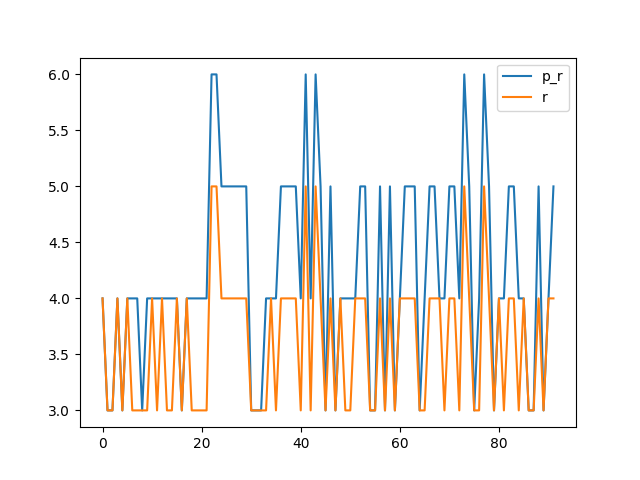
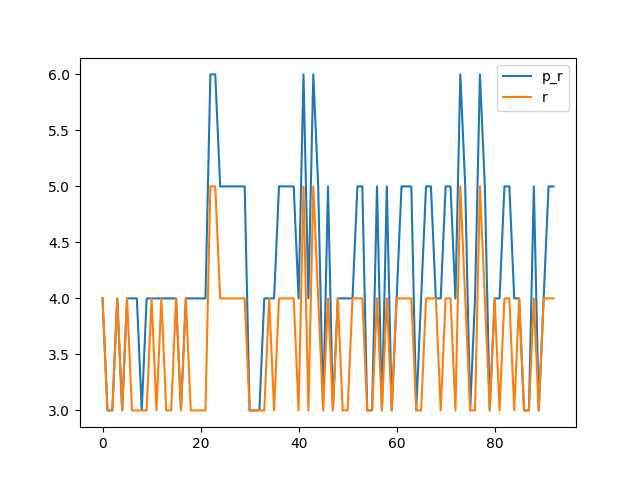
0x005C

diff --git a/benchmark.md b/benchmark.md
@@ -182,16 +182,18 @@ Synthesising 0x005A pexact:280 r=4 exact:352 r=4
 
 Synthesising 0x005B pexact:326 r=5 exact:344 r=4
 
+Synthesising 0x005C pexact:304 r=5 exact:320 r=4
+
 ```mermaid
 xychart-beta
     title "Comparison powertwoexact twoexact"
-    x-axis [0, 1, 2, 3, 4, 5, 6, 7, 8, 9, 10, 11, 12, 13, 14, 15, 16, 17, 18, 19, 20, 21, 22, 23, 24, 25, 26, 27, 28, 29, 30, 31, 32, 33, 34, 35, 36, 37, 38, 39, 40, 41, 42, 43, 44, 45, 46, 47, 48, 49, 50, 51, 52, 53, 54, 55, 56, 57, 58, 59, 60, 61, 62, 63, 64, 65, 66, 67, 68, 69, 70, 71, 72, 73, 74, 75, 76, 77, 78, 79, 80, 81, 82, 83, 84, 85, 86, 87, 88, 89, 90, 91]
+    x-axis [0, 1, 2, 3, 4, 5, 6, 7, 8, 9, 10, 11, 12, 13, 14, 15, 16, 17, 18, 19, 20, 21, 22, 23, 24, 25, 26, 27, 28, 29, 30, 31, 32, 33, 34, 35, 36, 37, 38, 39, 40, 41, 42, 43, 44, 45, 46, 47, 48, 49, 50, 51, 52, 53, 54, 55, 56, 57, 58, 59, 60, 61, 62, 63, 64, 65, 66, 67, 68, 69, 70, 71, 72, 73, 74, 75, 76, 77, 78, 79, 80, 81, 82, 83, 84, 85, 86, 87, 88, 89, 90, 91, 92]
     y-axis "Switching Activity" 0-->472
-    line [96, 152, 152, 182, 152, 182, 208, 182, 152, 208, 182, 182, 182, 182, 182, 182, 152, 182, 208, 182, 208, 182, 406, 400, 336, 310, 310, 304, 310, 304, 224, 216, 152, 208, 182, 182, 336, 310, 310, 304, 208, 406, 182, 400, 310, 224, 304, 216, 182, 182, 182, 182, 310, 304, 224, 216, 310, 224, 304, 216, 280, 326, 326, 238, 152, 208, 336, 310, 182, 182, 310, 304, 208, 406, 310, 224, 182, 400, 304, 216, 182, 182, 310, 304, 182, 182, 224, 216, 310, 224, 280, 326]
-    line [192, 152, 152, 312, 152, 352, 224, 192, 192, 224, 352, 216, 320, 216, 216, 352, 152, 326, 224, 216, 224, 192, 464, 448, 352, 344, 344, 320, 336, 352, 224, 216, 192, 224, 318, 192, 352, 344, 344, 312, 224, 448, 192, 440, 344, 224, 312, 216, 320, 216, 216, 280, 344, 312, 224, 216, 344, 224, 320, 216, 344, 336, 344, 288, 152, 224, 352, 336, 320, 192, 344, 320, 224, 472, 336, 224, 192, 448, 312, 216, 248, 192, 320, 352, 216, 192, 224, 216, 320, 224, 352, 344]
-    line [243.34782608695653, 243.34782608695653, 243.34782608695653, 243.34782608695653, 243.34782608695653, 243.34782608695653, 243.34782608695653, 243.34782608695653, 243.34782608695653, 243.34782608695653, 243.34782608695653, 243.34782608695653, 243.34782608695653, 243.34782608695653, 243.34782608695653, 243.34782608695653, 243.34782608695653, 243.34782608695653, 243.34782608695653, 243.34782608695653, 243.34782608695653, 243.34782608695653, 243.34782608695653, 243.34782608695653, 243.34782608695653, 243.34782608695653, 243.34782608695653, 243.34782608695653, 243.34782608695653, 243.34782608695653, 243.34782608695653, 243.34782608695653, 243.34782608695653, 243.34782608695653, 243.34782608695653, 243.34782608695653, 243.34782608695653, 243.34782608695653, 243.34782608695653, 243.34782608695653, 243.34782608695653, 243.34782608695653, 243.34782608695653, 243.34782608695653, 243.34782608695653, 243.34782608695653, 243.34782608695653, 243.34782608695653, 243.34782608695653, 243.34782608695653, 243.34782608695653, 243.34782608695653, 243.34782608695653, 243.34782608695653, 243.34782608695653, 243.34782608695653, 243.34782608695653, 243.34782608695653, 243.34782608695653, 243.34782608695653, 243.34782608695653, 243.34782608695653, 243.34782608695653, 243.34782608695653, 243.34782608695653, 243.34782608695653, 243.34782608695653, 243.34782608695653, 243.34782608695653, 243.34782608695653, 243.34782608695653, 243.34782608695653, 243.34782608695653, 243.34782608695653, 243.34782608695653, 243.34782608695653, 243.34782608695653, 243.34782608695653, 243.34782608695653, 243.34782608695653, 243.34782608695653, 243.34782608695653, 243.34782608695653, 243.34782608695653, 243.34782608695653, 243.34782608695653, 243.34782608695653, 243.34782608695653, 243.34782608695653, 243.34782608695653, 243.34782608695653, 243.34782608695653]
-    line [278.6521739130435, 278.6521739130435, 278.6521739130435, 278.6521739130435, 278.6521739130435, 278.6521739130435, 278.6521739130435, 278.6521739130435, 278.6521739130435, 278.6521739130435, 278.6521739130435, 278.6521739130435, 278.6521739130435, 278.6521739130435, 278.6521739130435, 278.6521739130435, 278.6521739130435, 278.6521739130435, 278.6521739130435, 278.6521739130435, 278.6521739130435, 278.6521739130435, 278.6521739130435, 278.6521739130435, 278.6521739130435, 278.6521739130435, 278.6521739130435, 278.6521739130435, 278.6521739130435, 278.6521739130435, 278.6521739130435, 278.6521739130435, 278.6521739130435, 278.6521739130435, 278.6521739130435, 278.6521739130435, 278.6521739130435, 278.6521739130435, 278.6521739130435, 278.6521739130435, 278.6521739130435, 278.6521739130435, 278.6521739130435, 278.6521739130435, 278.6521739130435, 278.6521739130435, 278.6521739130435, 278.6521739130435, 278.6521739130435, 278.6521739130435, 278.6521739130435, 278.6521739130435, 278.6521739130435, 278.6521739130435, 278.6521739130435, 278.6521739130435, 278.6521739130435, 278.6521739130435, 278.6521739130435, 278.6521739130435, 278.6521739130435, 278.6521739130435, 278.6521739130435, 278.6521739130435, 278.6521739130435, 278.6521739130435, 278.6521739130435, 278.6521739130435, 278.6521739130435, 278.6521739130435, 278.6521739130435, 278.6521739130435, 278.6521739130435, 278.6521739130435, 278.6521739130435, 278.6521739130435, 278.6521739130435, 278.6521739130435, 278.6521739130435, 278.6521739130435, 278.6521739130435, 278.6521739130435, 278.6521739130435, 278.6521739130435, 278.6521739130435, 278.6521739130435, 278.6521739130435, 278.6521739130435, 278.6521739130435, 278.6521739130435, 278.6521739130435, 278.6521739130435]
-    bar [80, 60, 60, 80, 60, 80, 80, 80, 60, 80, 80, 80, 80, 80, 80, 80, 60, 80, 80, 80, 80, 80, 120, 120, 100, 100, 100, 100, 100, 100, 60, 60, 60, 80, 80, 80, 100, 100, 100, 100, 80, 120, 80, 120, 100, 60, 100, 60, 80, 80, 80, 80, 100, 100, 60, 60, 100, 60, 100, 60, 80, 100, 100, 100, 60, 80, 100, 100, 80, 80, 100, 100, 80, 120, 100, 60, 80, 120, 100, 60, 80, 80, 100, 100, 80, 80, 60, 60, 100, 60, 80, 100]
-    bar [80, 60, 60, 80, 60, 80, 60, 60, 60, 60, 80, 60, 80, 60, 60, 80, 60, 80, 60, 60, 60, 60, 100, 100, 80, 80, 80, 80, 80, 80, 60, 60, 60, 60, 80, 60, 80, 80, 80, 80, 60, 100, 60, 100, 80, 60, 80, 60, 80, 60, 60, 80, 80, 80, 60, 60, 80, 60, 80, 60, 80, 80, 80, 80, 60, 60, 80, 80, 80, 60, 80, 80, 60, 100, 80, 60, 60, 100, 80, 60, 80, 60, 80, 80, 60, 80, 60, 60, 80, 60, 80, 80]
+    line [96, 152, 152, 182, 152, 182, 208, 182, 152, 208, 182, 182, 182, 182, 182, 182, 152, 182, 208, 182, 208, 182, 406, 400, 336, 310, 310, 304, 310, 304, 224, 216, 152, 208, 182, 182, 336, 310, 310, 304, 208, 406, 182, 400, 310, 224, 304, 216, 182, 182, 182, 182, 310, 304, 224, 216, 310, 224, 304, 216, 280, 326, 326, 238, 152, 208, 336, 310, 182, 182, 310, 304, 208, 406, 310, 224, 182, 400, 304, 216, 182, 182, 310, 304, 182, 182, 224, 216, 310, 224, 280, 326, 304]
+    line [192, 152, 152, 312, 152, 352, 224, 192, 192, 224, 352, 216, 320, 216, 216, 352, 152, 326, 224, 216, 224, 192, 464, 448, 352, 344, 344, 320, 336, 352, 224, 216, 192, 224, 318, 192, 352, 344, 344, 312, 224, 448, 192, 440, 344, 224, 312, 216, 320, 216, 216, 280, 344, 312, 224, 216, 344, 224, 320, 216, 344, 336, 344, 288, 152, 224, 352, 336, 320, 192, 344, 320, 224, 472, 336, 224, 192, 448, 312, 216, 248, 192, 320, 352, 216, 192, 224, 216, 320, 224, 352, 344, 320]
+    line [244.0, 244.0, 244.0, 244.0, 244.0, 244.0, 244.0, 244.0, 244.0, 244.0, 244.0, 244.0, 244.0, 244.0, 244.0, 244.0, 244.0, 244.0, 244.0, 244.0, 244.0, 244.0, 244.0, 244.0, 244.0, 244.0, 244.0, 244.0, 244.0, 244.0, 244.0, 244.0, 244.0, 244.0, 244.0, 244.0, 244.0, 244.0, 244.0, 244.0, 244.0, 244.0, 244.0, 244.0, 244.0, 244.0, 244.0, 244.0, 244.0, 244.0, 244.0, 244.0, 244.0, 244.0, 244.0, 244.0, 244.0, 244.0, 244.0, 244.0, 244.0, 244.0, 244.0, 244.0, 244.0, 244.0, 244.0, 244.0, 244.0, 244.0, 244.0, 244.0, 244.0, 244.0, 244.0, 244.0, 244.0, 244.0, 244.0, 244.0, 244.0, 244.0, 244.0, 244.0, 244.0, 244.0, 244.0, 244.0, 244.0, 244.0, 244.0, 244.0, 244.0]
+    line [279.0967741935484, 279.0967741935484, 279.0967741935484, 279.0967741935484, 279.0967741935484, 279.0967741935484, 279.0967741935484, 279.0967741935484, 279.0967741935484, 279.0967741935484, 279.0967741935484, 279.0967741935484, 279.0967741935484, 279.0967741935484, 279.0967741935484, 279.0967741935484, 279.0967741935484, 279.0967741935484, 279.0967741935484, 279.0967741935484, 279.0967741935484, 279.0967741935484, 279.0967741935484, 279.0967741935484, 279.0967741935484, 279.0967741935484, 279.0967741935484, 279.0967741935484, 279.0967741935484, 279.0967741935484, 279.0967741935484, 279.0967741935484, 279.0967741935484, 279.0967741935484, 279.0967741935484, 279.0967741935484, 279.0967741935484, 279.0967741935484, 279.0967741935484, 279.0967741935484, 279.0967741935484, 279.0967741935484, 279.0967741935484, 279.0967741935484, 279.0967741935484, 279.0967741935484, 279.0967741935484, 279.0967741935484, 279.0967741935484, 279.0967741935484, 279.0967741935484, 279.0967741935484, 279.0967741935484, 279.0967741935484, 279.0967741935484, 279.0967741935484, 279.0967741935484, 279.0967741935484, 279.0967741935484, 279.0967741935484, 279.0967741935484, 279.0967741935484, 279.0967741935484, 279.0967741935484, 279.0967741935484, 279.0967741935484, 279.0967741935484, 279.0967741935484, 279.0967741935484, 279.0967741935484, 279.0967741935484, 279.0967741935484, 279.0967741935484, 279.0967741935484, 279.0967741935484, 279.0967741935484, 279.0967741935484, 279.0967741935484, 279.0967741935484, 279.0967741935484, 279.0967741935484, 279.0967741935484, 279.0967741935484, 279.0967741935484, 279.0967741935484, 279.0967741935484, 279.0967741935484, 279.0967741935484, 279.0967741935484, 279.0967741935484, 279.0967741935484, 279.0967741935484, 279.0967741935484]
+    bar [80, 60, 60, 80, 60, 80, 80, 80, 60, 80, 80, 80, 80, 80, 80, 80, 60, 80, 80, 80, 80, 80, 120, 120, 100, 100, 100, 100, 100, 100, 60, 60, 60, 80, 80, 80, 100, 100, 100, 100, 80, 120, 80, 120, 100, 60, 100, 60, 80, 80, 80, 80, 100, 100, 60, 60, 100, 60, 100, 60, 80, 100, 100, 100, 60, 80, 100, 100, 80, 80, 100, 100, 80, 120, 100, 60, 80, 120, 100, 60, 80, 80, 100, 100, 80, 80, 60, 60, 100, 60, 80, 100, 100]
+    bar [80, 60, 60, 80, 60, 80, 60, 60, 60, 60, 80, 60, 80, 60, 60, 80, 60, 80, 60, 60, 60, 60, 100, 100, 80, 80, 80, 80, 80, 80, 60, 60, 60, 60, 80, 60, 80, 80, 80, 80, 60, 100, 60, 100, 80, 60, 80, 60, 80, 60, 60, 80, 80, 80, 60, 60, 80, 60, 80, 60, 80, 80, 80, 80, 60, 60, 80, 80, 80, 60, 80, 80, 60, 100, 80, 60, 60, 100, 80, 60, 80, 60, 80, 80, 60, 80, 60, 60, 80, 60, 80, 80, 80]
 ```
 
